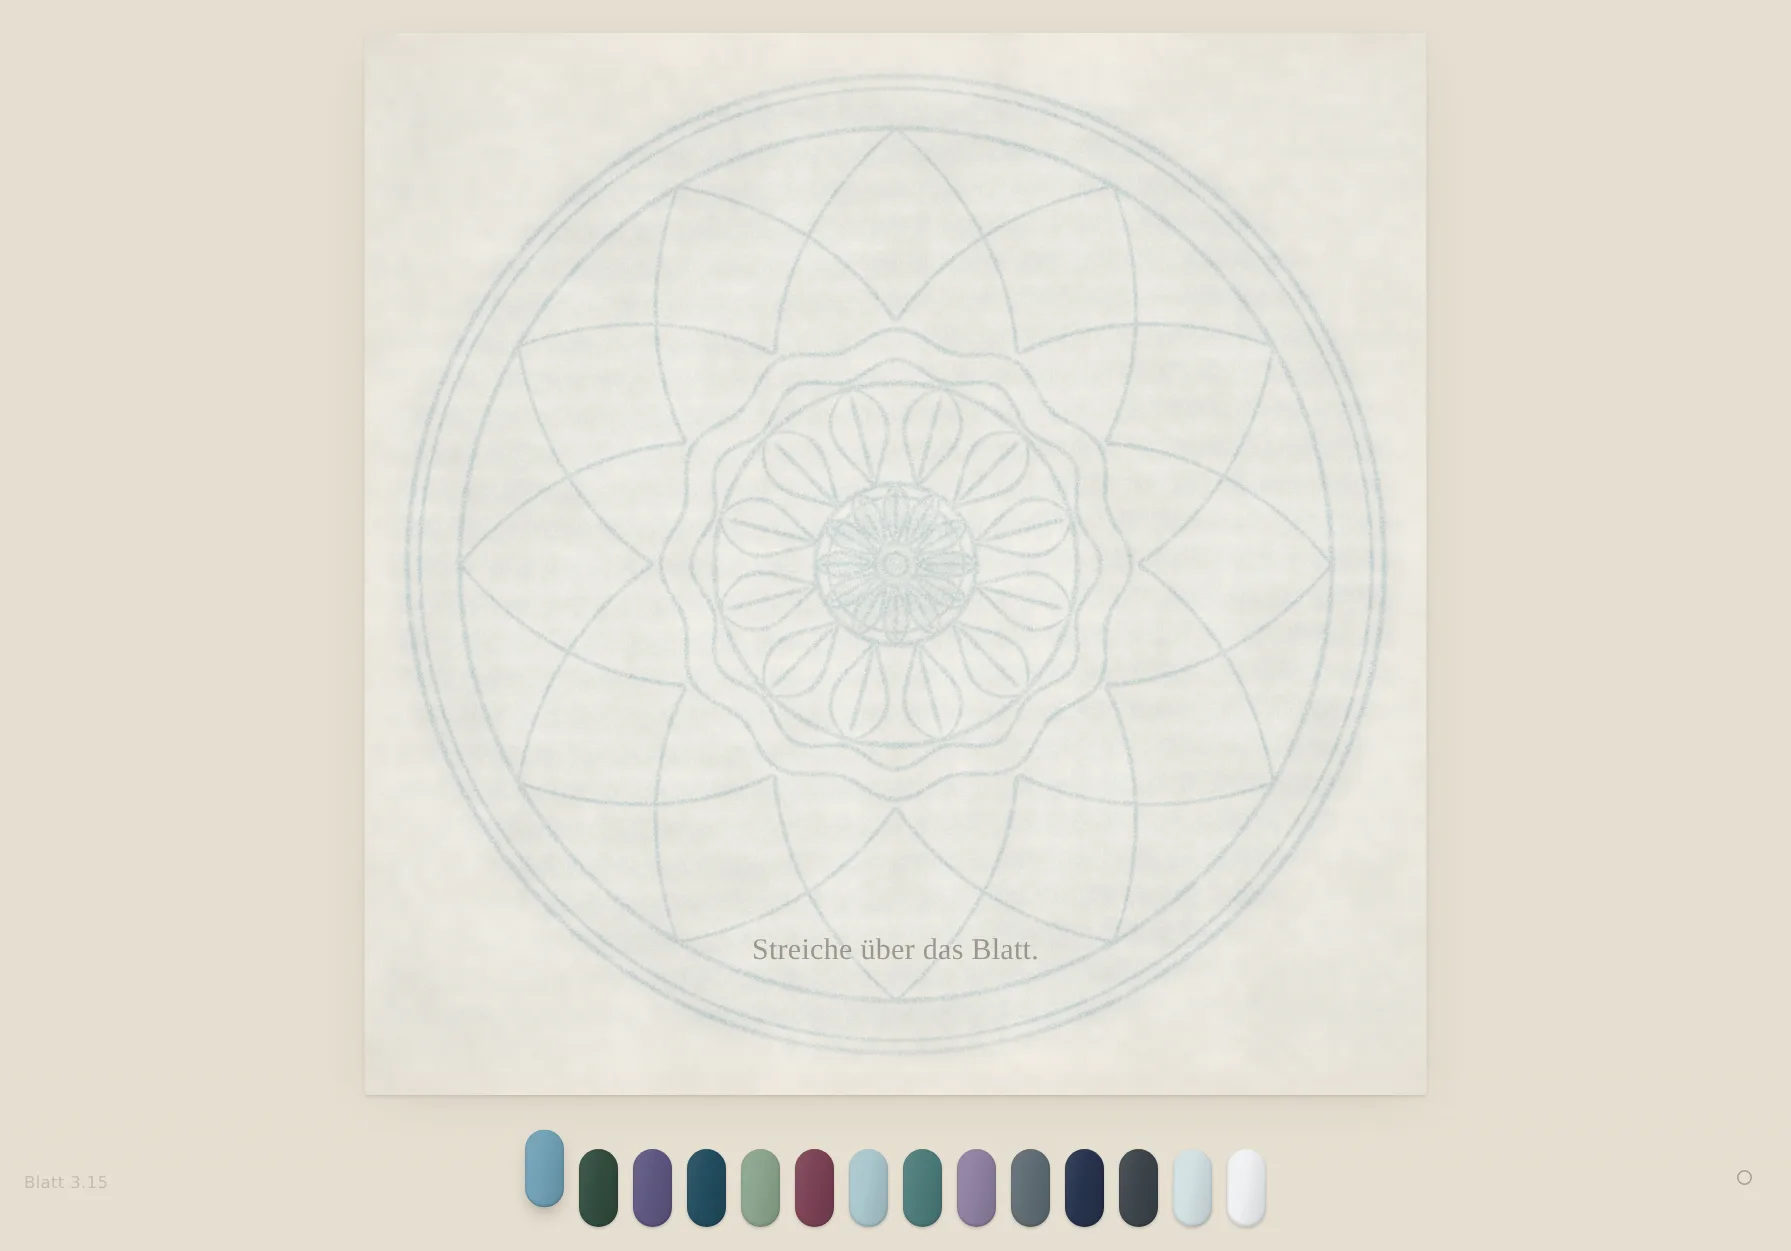
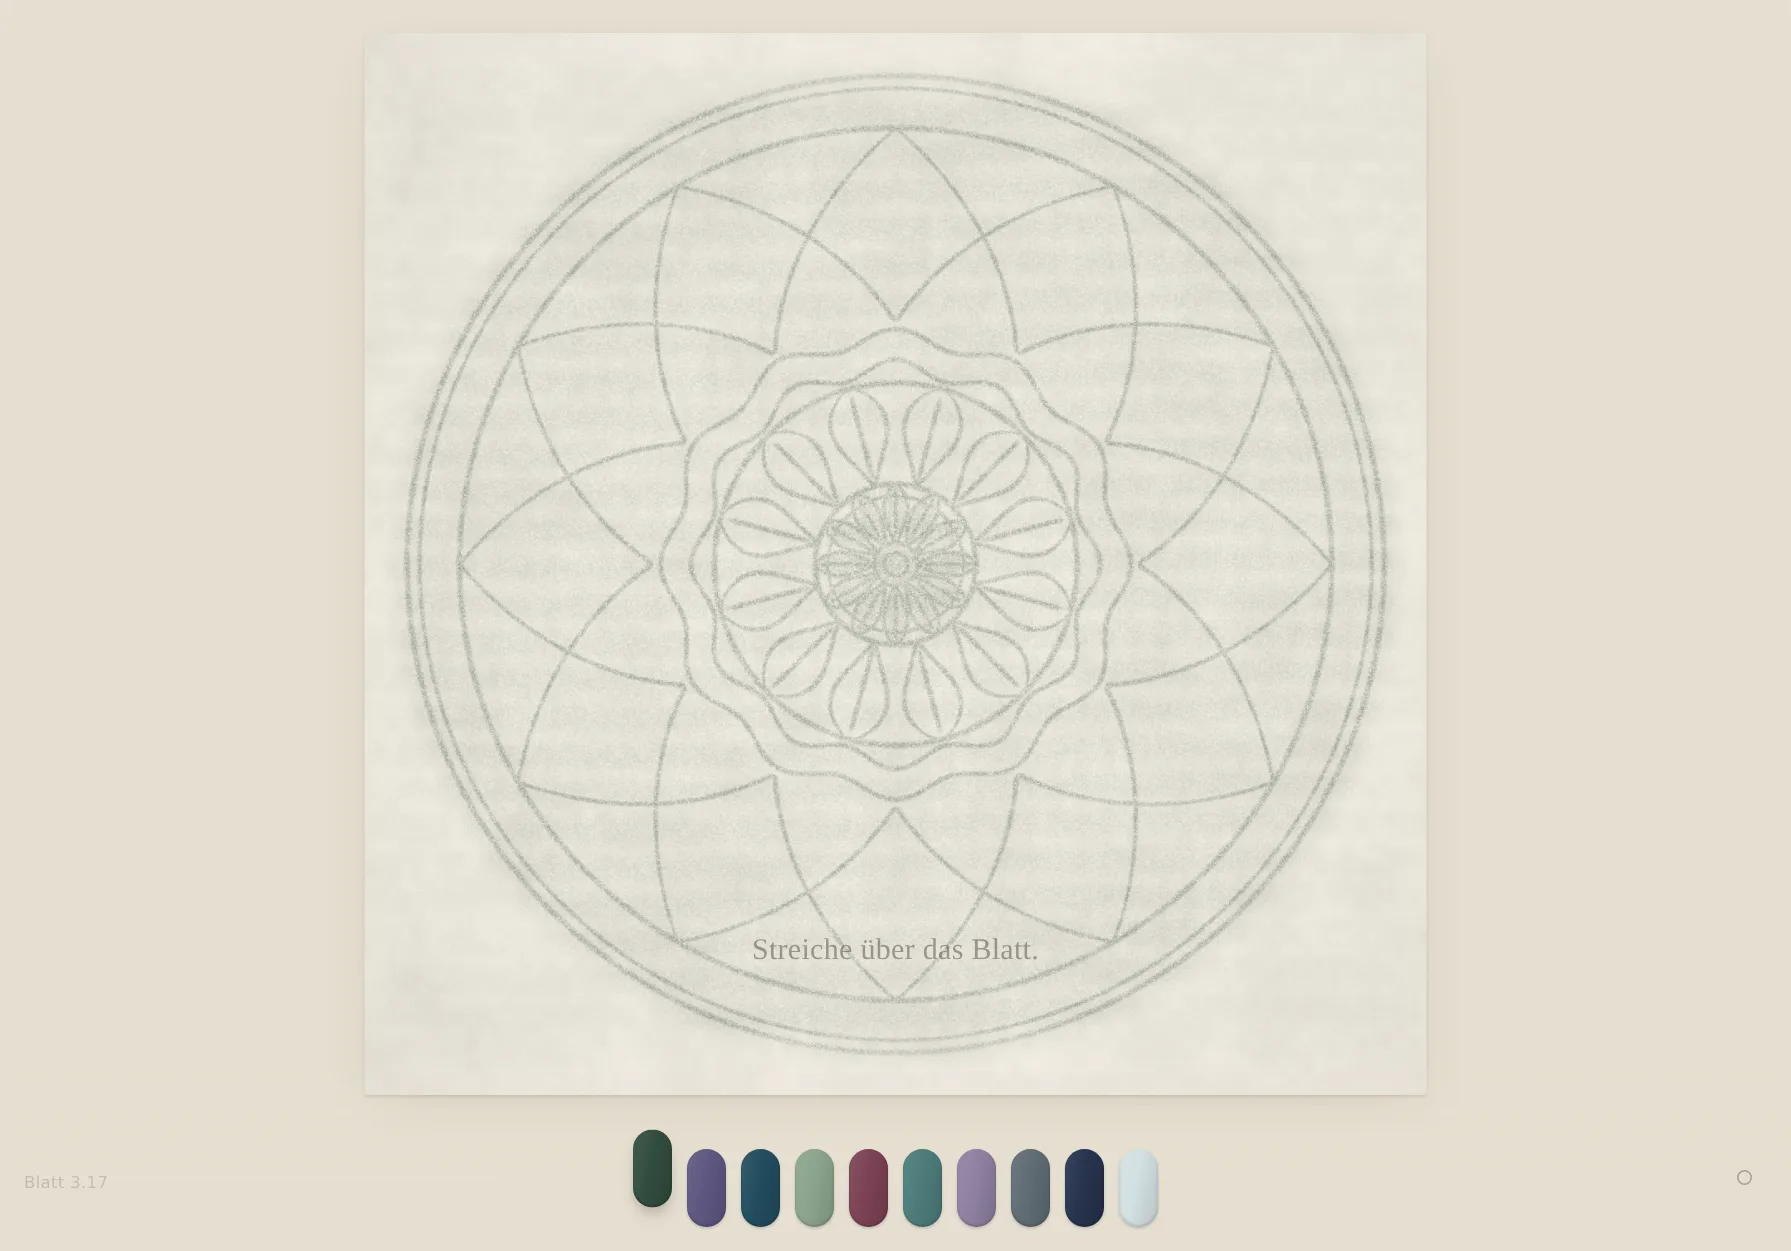
Attrappe: auf Atelier 2.24 und Blatt 3.17 nachgezogen
Die Seite entstand gegen 2.22/3.15; inzwischen steht auf main 2.24/3.17. Die
neun Bildschirmfotos sind neu aufgenommen, Fassungsnummern und Gewichte
stimmen wieder, und die beiden „Neu"-Texte sind aus der wirklichen Fassung
abgeleitet statt frei erfunden (Entwurf bleiben sie: so schreibt man es nicht
in einen Store).

Eine Beobachtung ist damit hinfällig geworden und steht berichtigt in der
Seite: Mit 3.17 holt die leichte Hand nicht mehr nur einen Schleier, sondern
eine vollständige Bleistiftzeichnung hervor. Blass sind Blatts Fotos trotzdem
– das ist der Punkt der App und bleibt der Hinweis für den Store.

Claude-Session: https://claude.ai/code/session_01FzUhXfUYrLdGf64gk4bs5u

diff --git a/docs/store.html b/docs/store.html
@@ -420,7 +420,7 @@
           <div class="wert"><small>Alter</small><b class="l" data-was="Vorschlag">4+<em>Jahre</em></b></div>
           <div class="wert"><small>Kategorie</small><b class="l" data-was="Vorschlag">🎨<em>Grafik&nbsp;&amp;&nbsp;Design</em></b></div>
           <div class="wert"><small>Sprache</small><b>DE<em>Deutsch</em></b></div>
-          <div class="wert"><small>Größe</small><b>693<em>kB</em></b></div>
+          <div class="wert"><small>Größe</small><b>694<em>kB</em></b></div>
         </div>
 
         <div class="fotos">
@@ -431,10 +431,11 @@
 
         <div class="abschnitt">
           <div class="neu-kopf"><h2>Neu</h2><a href="fassungen.html">Versionsverlauf</a></div>
-          <p class="neu-zeile"><span>Version 2.22</span><span class="l" data-was="Entwurf">Vor 3 Tagen</span></p>
-          <p class="l" data-was="Entwurf">Die Farbwelten lassen sich jetzt
-            mitten in der Arbeit wechseln, ohne dass Gefärbtes verlorengeht.
-            Dazu vier neue Vorlagen und ein ruhigerer Druckbogen.</p>
+          <p class="neu-zeile"><span>Version 2.24</span><span class="l" data-was="Entwurf">Vor 3 Tagen</span></p>
+          <p class="l" data-was="Entwurf">Jede Farbwelt hat jetzt zehn Töne,
+            und keiner liegt einem anderen mehr so nahe, dass man sie auf dem
+            Blatt verwechselt. Die Kreide legt sich darüber, ohne sie zu
+            zerstören.</p>
         </div>
 
         <div class="abschnitt">
@@ -480,7 +481,7 @@
           <h2>Informationen</h2>
           <table class="info">
             <tr><th>Anbieter</th><td><span class="l" data-was="fehlt">Name, unter dem verkauft wird</span></td></tr>
-            <tr><th>Größe</th><td>693 kB</td></tr>
+            <tr><th>Größe</th><td>694 kB</td></tr>
             <tr><th>Kategorie</th><td><span class="l" data-was="Vorschlag">Grafik &amp; Design</span></td></tr>
             <tr><th>Kompatibilität</th><td><span class="l" data-was="ungeprüft">iPad, iPadOS 16.0 oder neuer</span></td></tr>
             <tr><th>Sprachen</th><td>Deutsch</td></tr>
@@ -514,7 +515,7 @@
           <div class="wert"><small>Alter</small><b class="l" data-was="Vorschlag">4+<em>Jahre</em></b></div>
           <div class="wert"><small>Kategorie</small><b class="l" data-was="Vorschlag">🌿<em>Lifestyle</em></b></div>
           <div class="wert"><small>Sprache</small><b>DE<em>Deutsch</em></b></div>
-          <div class="wert"><small>Größe</small><b>740<em>kB</em></b></div>
+          <div class="wert"><small>Größe</small><b>741<em>kB</em></b></div>
         </div>
 
         <div class="fotos">
@@ -525,10 +526,10 @@
 
         <div class="abschnitt">
           <div class="neu-kopf"><h2>Neu</h2><a href="fassungen.html">Versionsverlauf</a></div>
-          <p class="neu-zeile"><span>Version 3.15</span><span class="l" data-was="Entwurf">Vor 3 Tagen</span></p>
-          <p class="l" data-was="Entwurf">Der Griff trennt sauberer zwischen
-            leichter und fester Hand: Wer zügig streicht, holt zuerst die
-            Zeichnung hervor und kann danach in Ruhe ausmalen.</p>
+          <p class="neu-zeile"><span>Version 3.17</span><span class="l" data-was="Entwurf">Vor 3 Tagen</span></p>
+          <p class="l" data-was="Entwurf">Auch hier zehn Töne je Farbwelt,
+            in Blatts Grammatik übersetzt: Was das Atelier bekommt, bekommt
+            Blatt auch.</p>
         </div>
 
         <div class="abschnitt">
@@ -569,7 +570,7 @@
           <h2>Informationen</h2>
           <table class="info">
             <tr><th>Anbieter</th><td><span class="l" data-was="fehlt">Name, unter dem verkauft wird</span></td></tr>
-            <tr><th>Größe</th><td>740 kB</td></tr>
+            <tr><th>Größe</th><td>741 kB</td></tr>
             <tr><th>Kategorie</th><td><span class="l" data-was="Vorschlag">Lifestyle</span></td></tr>
             <tr><th>Kompatibilität</th><td><span class="l" data-was="ungeprüft">iPad, iPadOS 16.0 oder neuer</span></td></tr>
             <tr><th>Sprachen</th><td>Deutsch</td></tr>
@@ -781,13 +782,14 @@
         iPhone 6.9". Zu ändern ist dafür eine Zeile in
         <code>tools/gen-store.js</code> – das Maß steht dort oben.</small></span></li>
     <li><span class="zeichen da">✓</span><span>
-      <b>Das Material trägt.</b>
+      <b>Das Material trägt – bei Blatt mit einer Einschränkung.</b>
       <small>Die eigentliche Frage bei Bildschirmfotos ist, ob eine App auf
-        einem kleinen Bild überhaupt etwas hermacht. Sehen Sie oben nach:
-        Beim Atelier und bei Malstudio sofort. Bei Blatt ist das erste Foto
-        blass – das ist keine Schwäche des Fotos, sondern der Punkt der App
-        („es kommt erst unter der Hand"). Für den Store müsste das zweite
-        oder dritte Foto zuerst stehen.</small></span></li>
+        einem kleinen Bild überhaupt etwas hermacht. Sehen Sie oben nach: Beim
+        Atelier und bei Malstudio sofort. Blatts Blätter sind blass – die App
+        zeigt Bleistift auf Papier, und was in der Hand ruhig aussieht, sieht
+        als Briefmarke neben bunten Kacheln schwach aus. Für den Store müsste
+        entweder ein weiter herausgearbeitetes Blatt zuerst stehen oder der
+        Ausschnitt enger sitzen, ohne den leeren Rand ringsum.</small></span></li>
     <li><span class="zeichen fehlt">✗</span><span>
       <b>App-Vorschau (Video), freiwillig.</b>
       <small>Bei Blatt wäre es fast Pflicht: Der Reiz ist eine Bewegung, und
